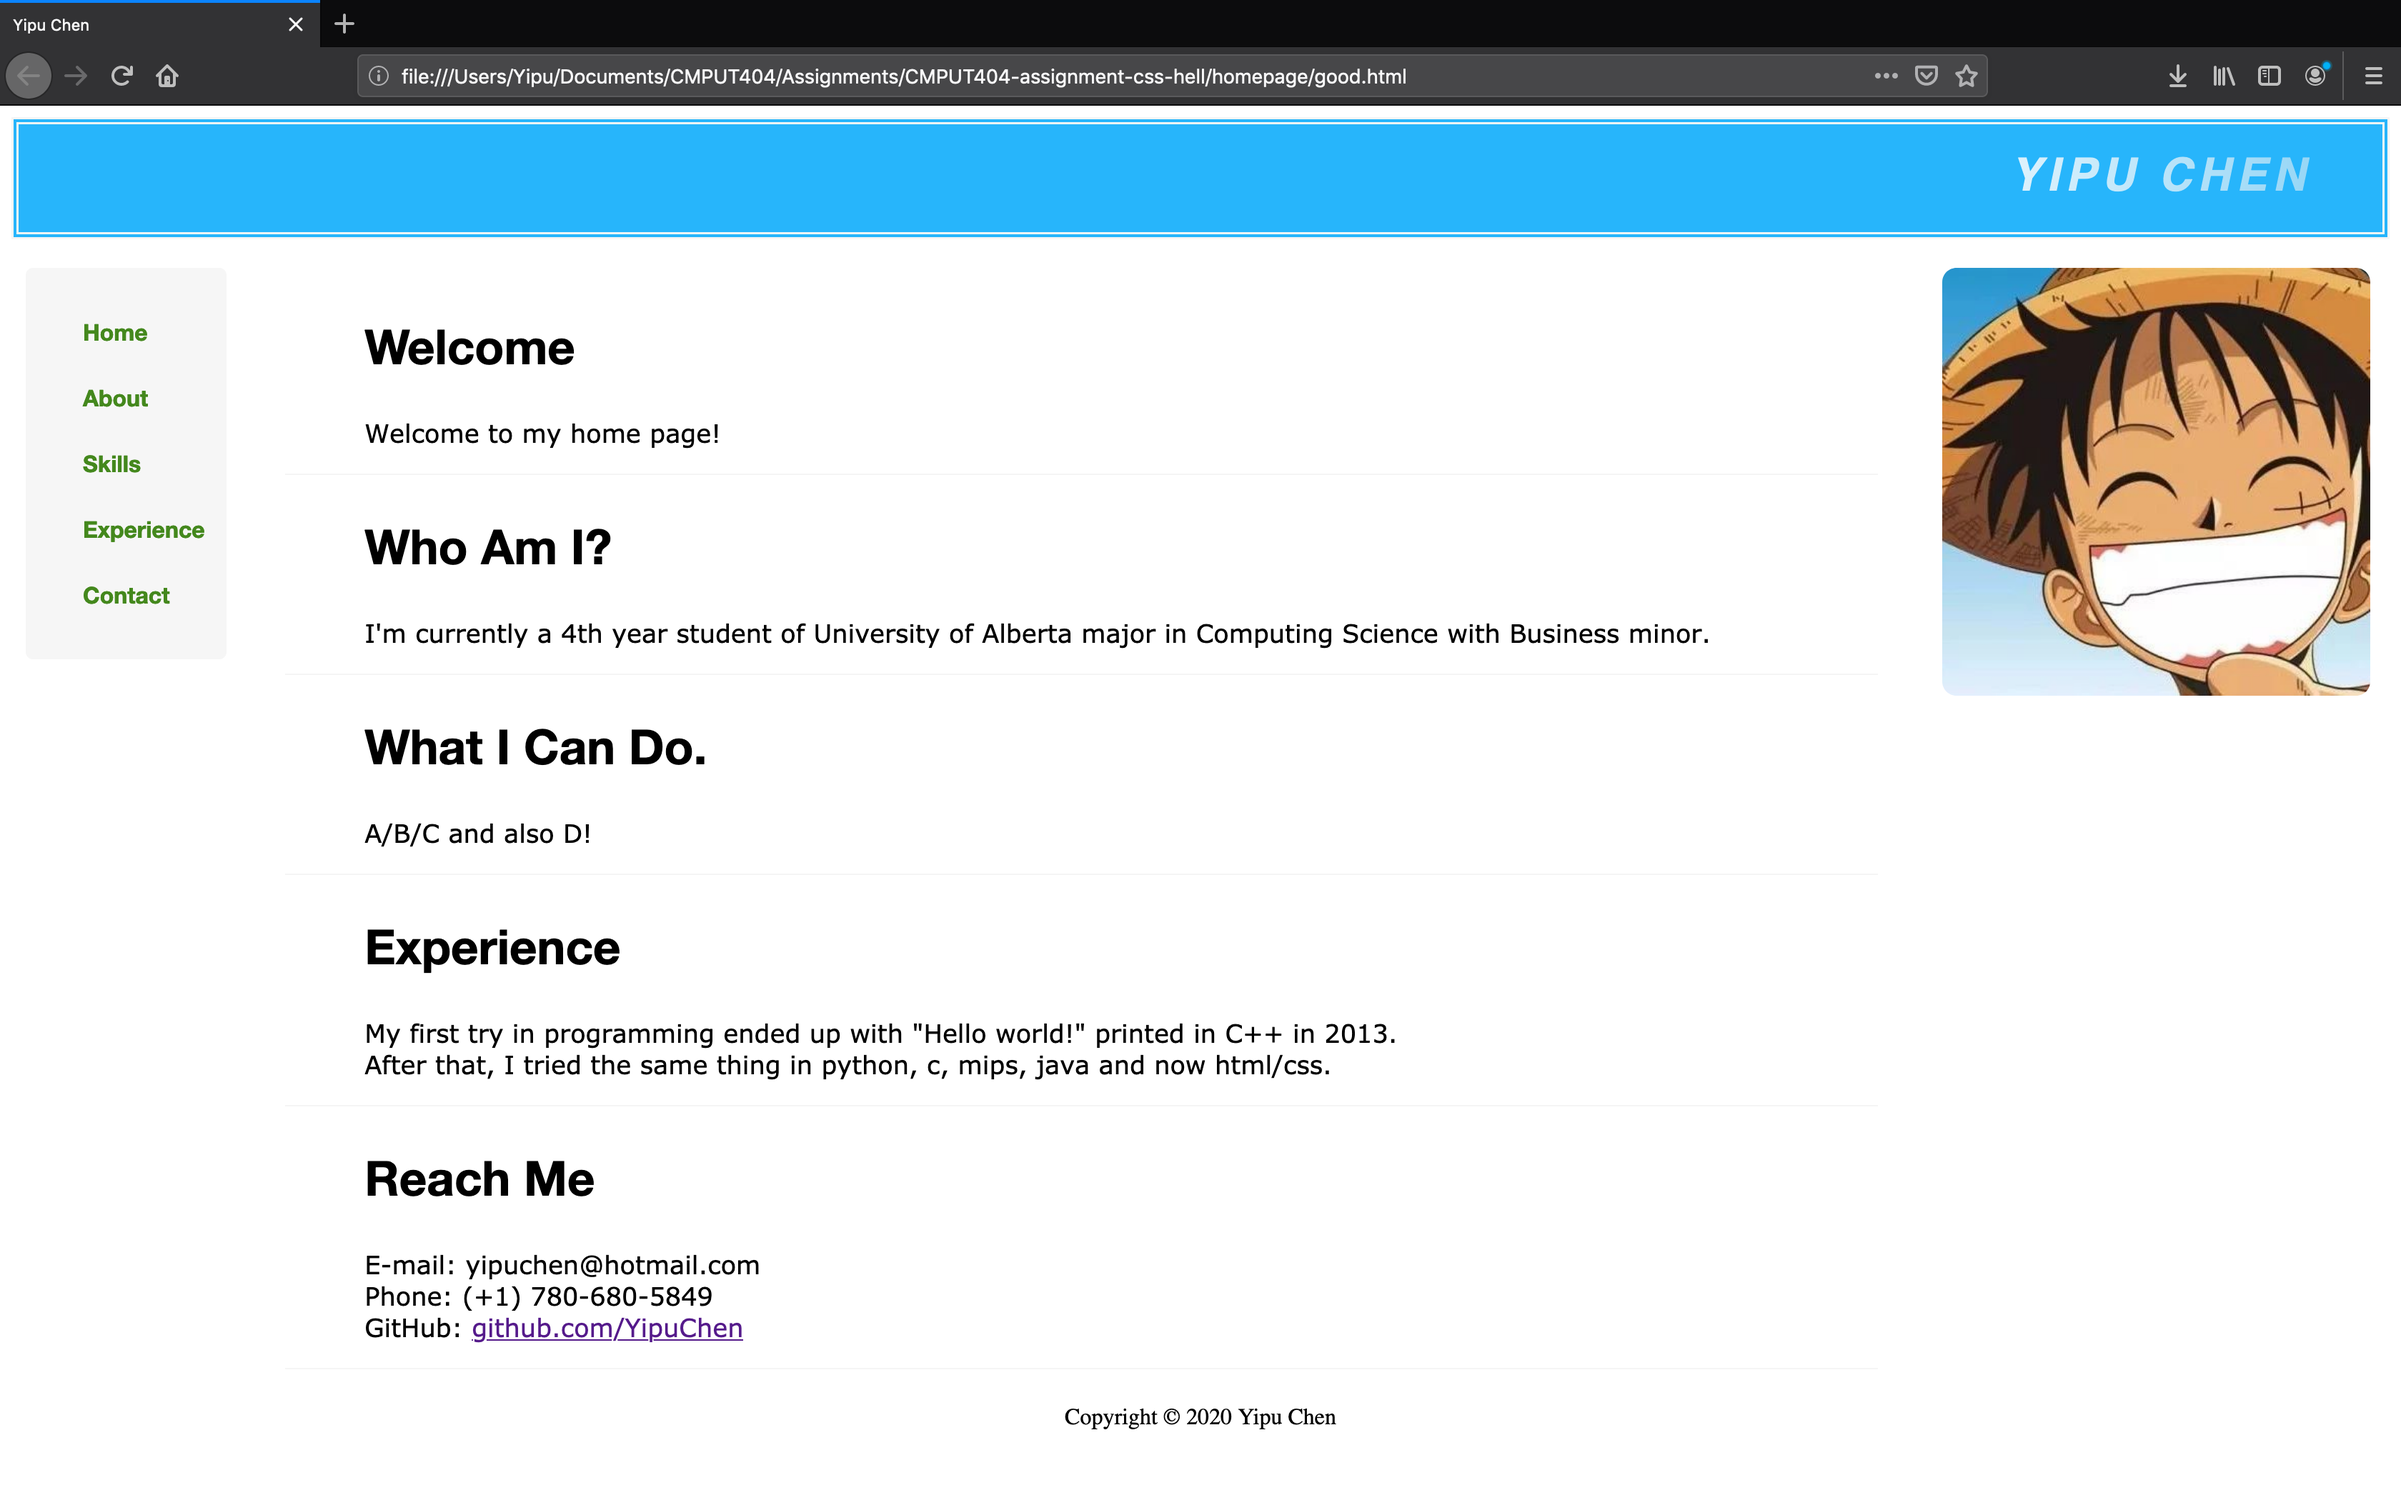
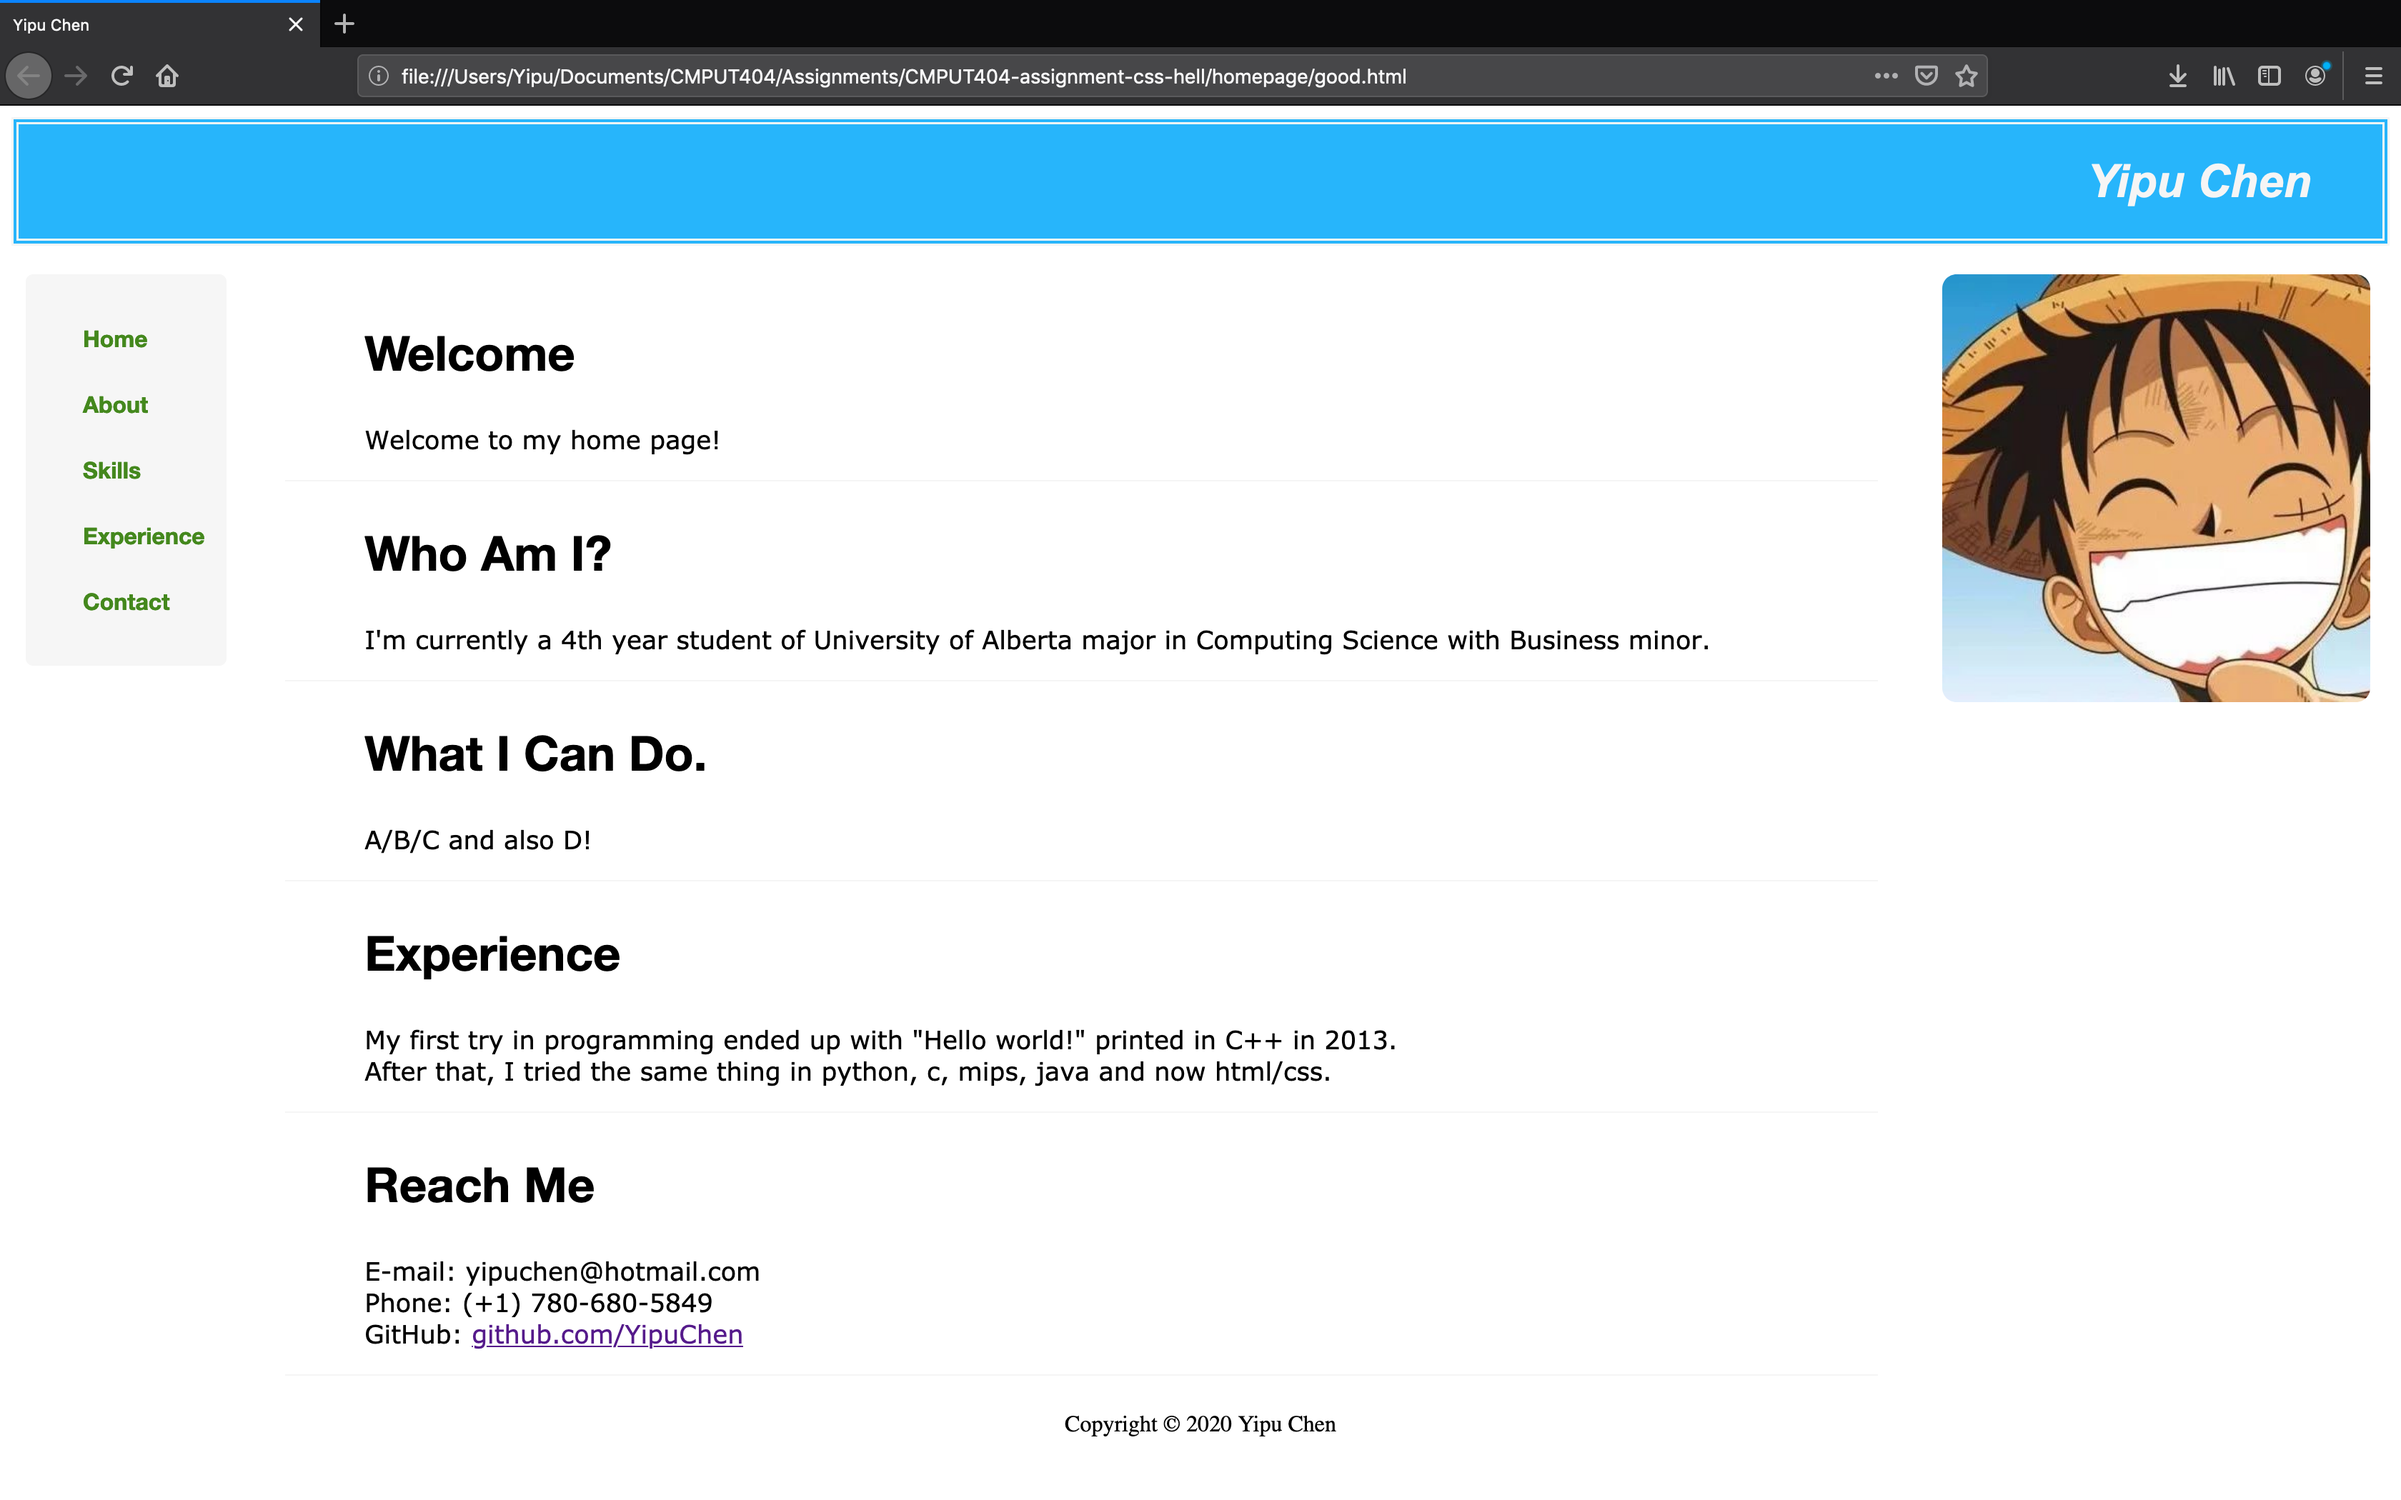
name css removed.

diff --git a/homepage/good.css b/homepage/good.css
@@ -120,26 +120,3 @@ section {
     border-width: thin;
     border-bottom-style: solid;
 }
-
-
-.shining {
-  font-size: 2em;
-  font-family: Lato, sans-serif;
-  letter-spacing: 4px;
-  text-transform: uppercase;
-  background: linear-gradient(90deg,  #25aaec 10%, rgba(255,255,255,1) 50%, #25aaec 100%);
-  background-size: 80%;
-  background-repeat: repeat;
-  color: transparent;
-  background-clip: text;
-  animation: shining 5s linear infinite;
-}
-
-@keyframes shining {
-  from {
-    background-position: -500%;
-  }
-  to {
-    background-position: 500%;
-  }
-}

diff --git a/homepage/good.html b/homepage/good.html
@@ -9,7 +9,7 @@
 <body>
     <div id="container">
         <div id="header">
-            <h1 class="shining">
+            <h1>
                 Yipu Chen
             </h1>
         </div>

diff --git a/README.md b/README.md
@@ -27,8 +27,7 @@ From http://www.gutenberg.org/browse/scores/top
 
 CSS:
 1. ugly.html name on top sliding effect: https://www.w3schools.com/cssref/tryit.asp?filename=trycss3_animation
-2. good.html name on top flashing gradient effevt: https://codepen.io/alphardex/pen/VwweapQ
-3. good.html navigation bar hover effect: https://codepen.io/alphardex/pen/MWWEmLK
+2. good.html navigation bar hover effect: https://codepen.io/alphardex/pen/MWWEmLK
 
 Images(no professional profile images on hand):
 1. luffy.jpg: https://www.google.com/search?q=%E8%B7%AF%E9%A3%9E&tbm=isch&ved=2ahUKEwjI6L6I5-rnAhWkBTQIHb4MDoQQ2-cCegQIABAA&oq=%E8%B7%AF%E9%A3%9E&gs_l=img.3..0l10.12966.16373..16637...0.0..0.116.529.3j4......0....1..gws-wiz-img.....0..0i67j0i30j0i10i30.5uA20tFAP3I&ei=MBRUXsiQGaSL0PEPvpm4oAg&bih=939&biw=1680#imgrc=WftFvrD-JamIEM
